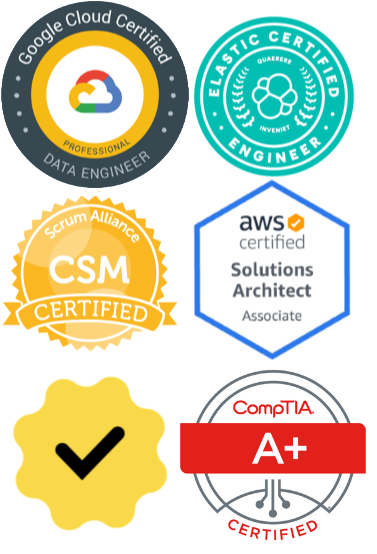
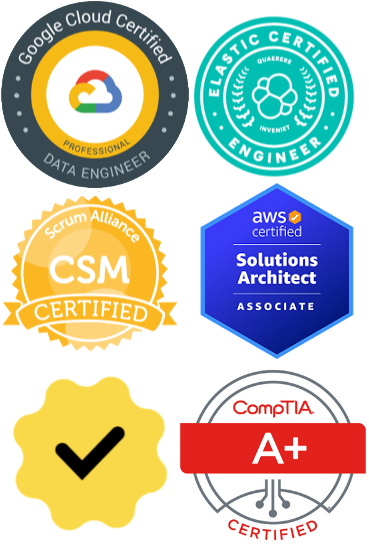
Update Badges w/ Elasticsearch Recert and New Style AWS badge

diff --git a/pelicanconf.py b/pelicanconf.py
@@ -34,7 +34,7 @@ AUTHORS_BIO = {
     #"image": "http://52.54.218.55:8000/images/sobanski-2.jpg",
     #"website": "https://github.com/hatdropper1977/john.soban.ski",
     "location": "Washington, DC",
-    "bio": "Professional Degree (Engr.) and Masters of Science in Electrical Engineering from GWU.<p><img src=\'https://john.soban.ski/images/six_badges.png\' alt=\'Cert\'></p><p>Google Cloud Certified Professional Data Engineer License <a href=\'https://www.credential.net/4951d2ef-2828-4f00-876c-5c2cc9ae1ab0\'>ctUxjj</a> (February 26th 2020, Recertified February 26th 2022, expires February 26th 2024)</p><p>Elasticsearch Certified Engineer License <a href=\'https://certified.elastic.co/81ae38bb-4a1a-42e5-9b34-7e90cd0c9617#gs.8l8jf7\'>19690771</a> (June 22nd 2020 - 2022)</p><p>Scrum Master Certified <a href=\'http://bcert.me/spffgetkt\'>1238209</a> (June 25th 2020 - 2022)</p><p>AWS License <a href=\'https://www.youracclaim.com/badges/42379ff7-2298-48a0-ba32-c30198985295\'>R25L4B4K1FF1Q9WP</a> (July 1st 2016, Recertified June 29th 2018, May 22nd 2021, expires May 22nd 2024)</p><p>Rarible <a href=\'https://rarible.com/sobanski\'>Verified</a> (June 28th, 2021)</p><p>CompTIA <a href=\'https://www.credly.com/badges/ea22ce36-a52d-4a53-a65b-65dc98af3c77\'>A+ Certified</a> (January 31st 2001)</p>",
+    "bio": "Professional Degree (Engr.) and Masters of Science in Electrical Engineering from GWU.<p><img src=\'https://john.soban.ski/images/six_badges.png\' alt=\'Cert\'></p><p>Google Cloud Certified Professional Data Engineer License <a href=\'https://www.credential.net/4951d2ef-2828-4f00-876c-5c2cc9ae1ab0\'>ctUxjj</a> (February 26th 2020, Recertified February 26th 2022, expires February 26th 2024)</p><p>Elasticsearch Certified Engineer License <a href=\'https://certified.elastic.co/81ae38bb-4a1a-42e5-9b34-7e90cd0c9617#gs.8l8jf7\'>19690771</a> (June 22nd 2020, Recertified June 22nd 2022, expires June 24th 2024)</p><p>Scrum Master Certified <a href=\'https://bcert.me/bc/html/show-badge.html?b=pffgetkt\'</a> (June 25th 2020, Recertified June 25th 2022, expires June 25th 2024)</p><p>AWS License <a href=\'https://www.youracclaim.com/badges/42379ff7-2298-48a0-ba32-c30198985295\'>R25L4B4K1FF1Q9WP</a> (July 1st 2016, Recertified June 29th 2018, May 22nd 2021, expires May 22nd 2024)</p><p>Rarible <a href=\'https://rarible.com/sobanski\'>Verified</a> (June 28th, 2021)</p><p>CompTIA <a href=\'https://www.credly.com/badges/ea22ce36-a52d-4a53-a65b-65dc98af3c77\'>A+ Certified</a> (January 31st 2001)</p>",
     "linkedin": "johnsobanski/",
     "github": "hatdropper1977",
     "twitter": "SkiSoban",
